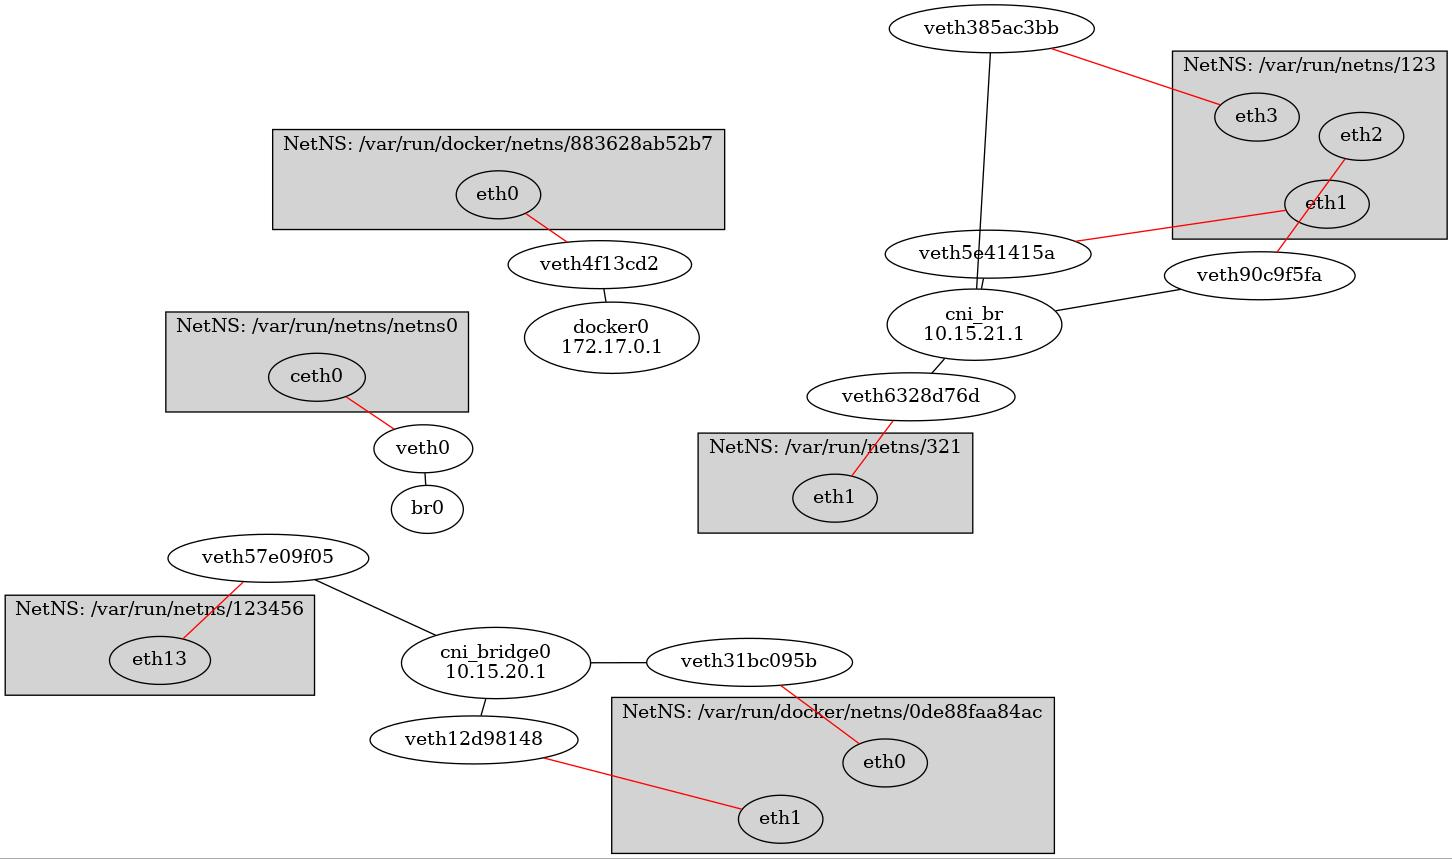
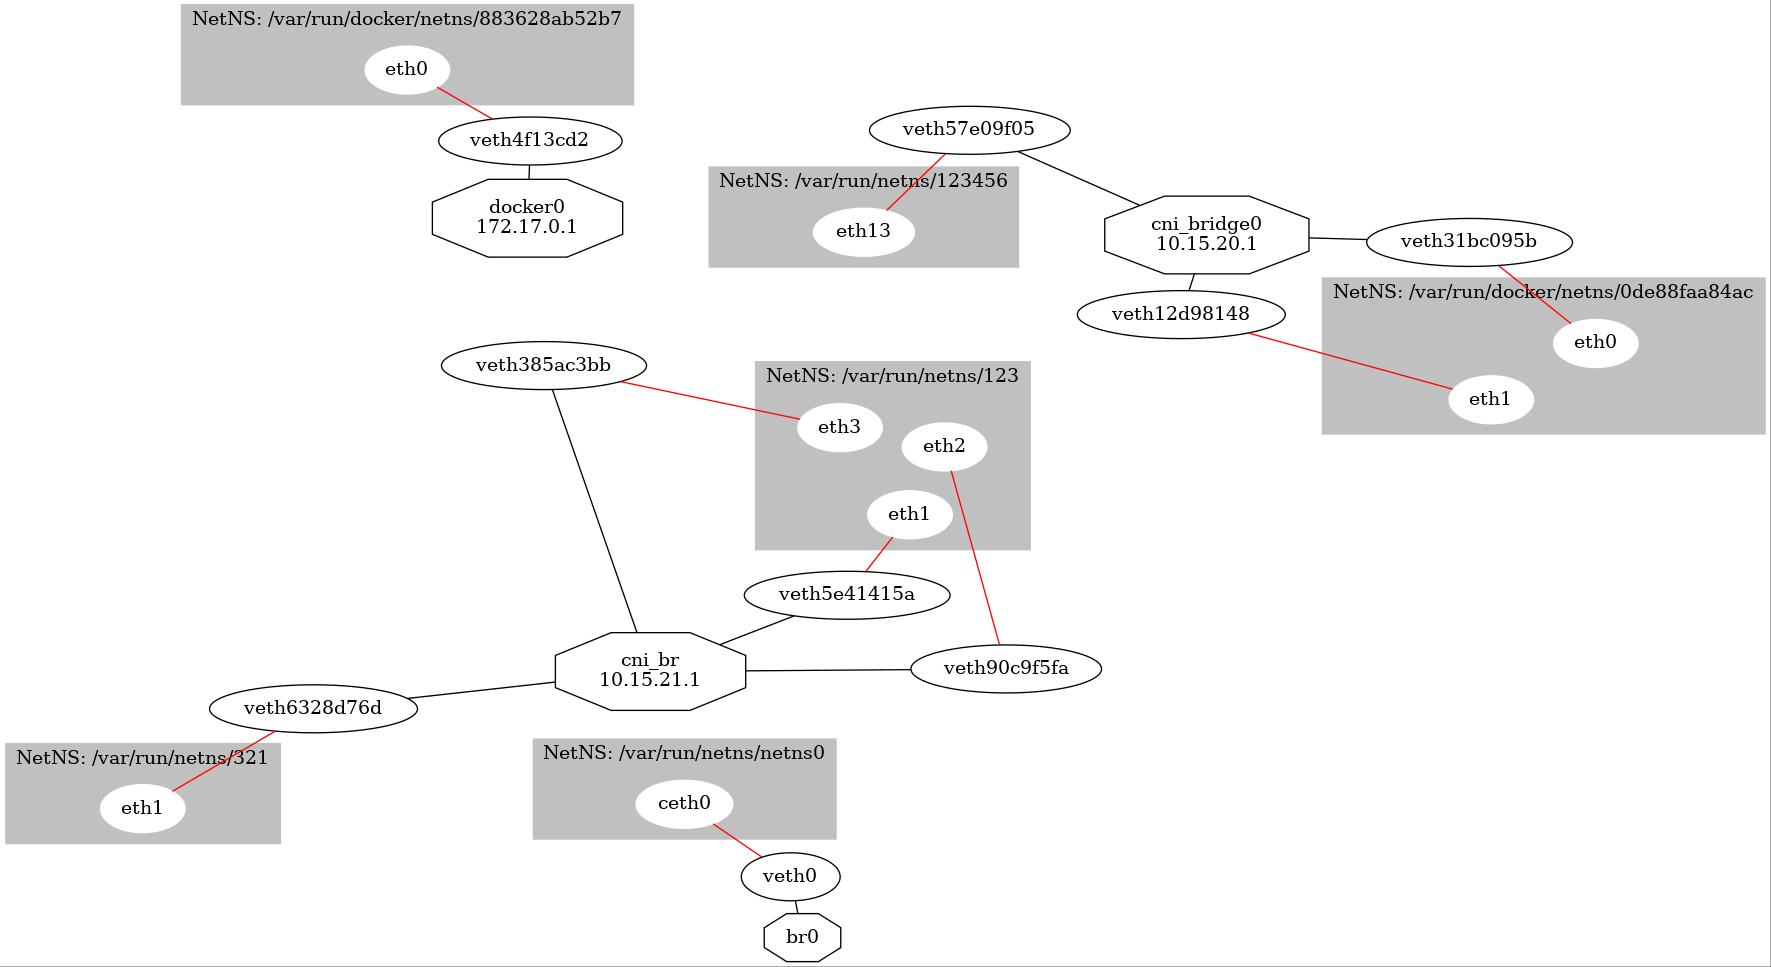
different shape for different devices

diff --git a/pkg/graph/graph.go b/pkg/graph/graph.go
@@ -28,6 +28,7 @@ func GenerateGraph(m map[string][]pkg.Pair, vpairs []pkg.Pair, bm map[string]*ne
 		attr := map[string]string{
 			"label":   strings.Join(labels, "\\n"),
 			"nodesep": "4.0",
+			"shape":   "octagon",
 		}
 		if err := root.AddNode("G", bridge, attr); err != nil {
 			return "", err
@@ -44,7 +45,9 @@ func GenerateGraph(m map[string][]pkg.Pair, vpairs []pkg.Pair, bm map[string]*ne
 					attr := map[string]string{
 						"label":   fmt.Sprintf("NetNS: %s", vp.NetNsName),
 						"style":   "filled",
+						"color":   "grey",
 						"nodesep": "4.0",
+						"shape":   "box",
 					}
 
 					if err := root.AddSubGraph("G", sub.Name, attr); err != nil {
@@ -64,6 +67,9 @@ func GenerateGraph(m map[string][]pkg.Pair, vpairs []pkg.Pair, bm map[string]*ne
 				vethInNsName := fmt.Sprintf("%s_%d", vp.PeerInNetns, i)
 				if err := root.AddNode(sub.Name, vethInNsName, map[string]string{
 					"label": vp.PeerInNetns,
+					"shape": "oval",
+					"color": "white",
+					"style": "filled",
 				}); err != nil {
 					return "", err
 				}
@@ -91,6 +97,14 @@ func GenerateGraph(m map[string][]pkg.Pair, vpairs []pkg.Pair, bm map[string]*ne
 			}
 		}
 	}
+
+	// visited := make(map[string]struct{})
+	// for _, vp := range vpairs {
+	// 	root.AddNode("G", vp.Veth, map[string]string{"label": vp.Veth}) //nolint:errcheck
+	// 	visited[vp.Veth] = struct{}{}
+	// 	root.AddNode("G", vp.Veth, map[string]string{"label": vp.Veth}) //nolint:errcheck
+	// 	visited[vp.Peer] = struct{}{}
+	// }
 
 	return root.String(), nil
 }

diff --git a/cmd/iftree/main.go b/cmd/iftree/main.go
@@ -64,6 +64,7 @@ func main() {
 				log.Fatal(err)
 			}
 			if link.Attrs().MasterIndex == -1 || veth.MasterIndex == 0 {
+
 				p := pkg.Pair{
 					Veth:    veth.Name,
 					Peer:    veth.PeerName,
